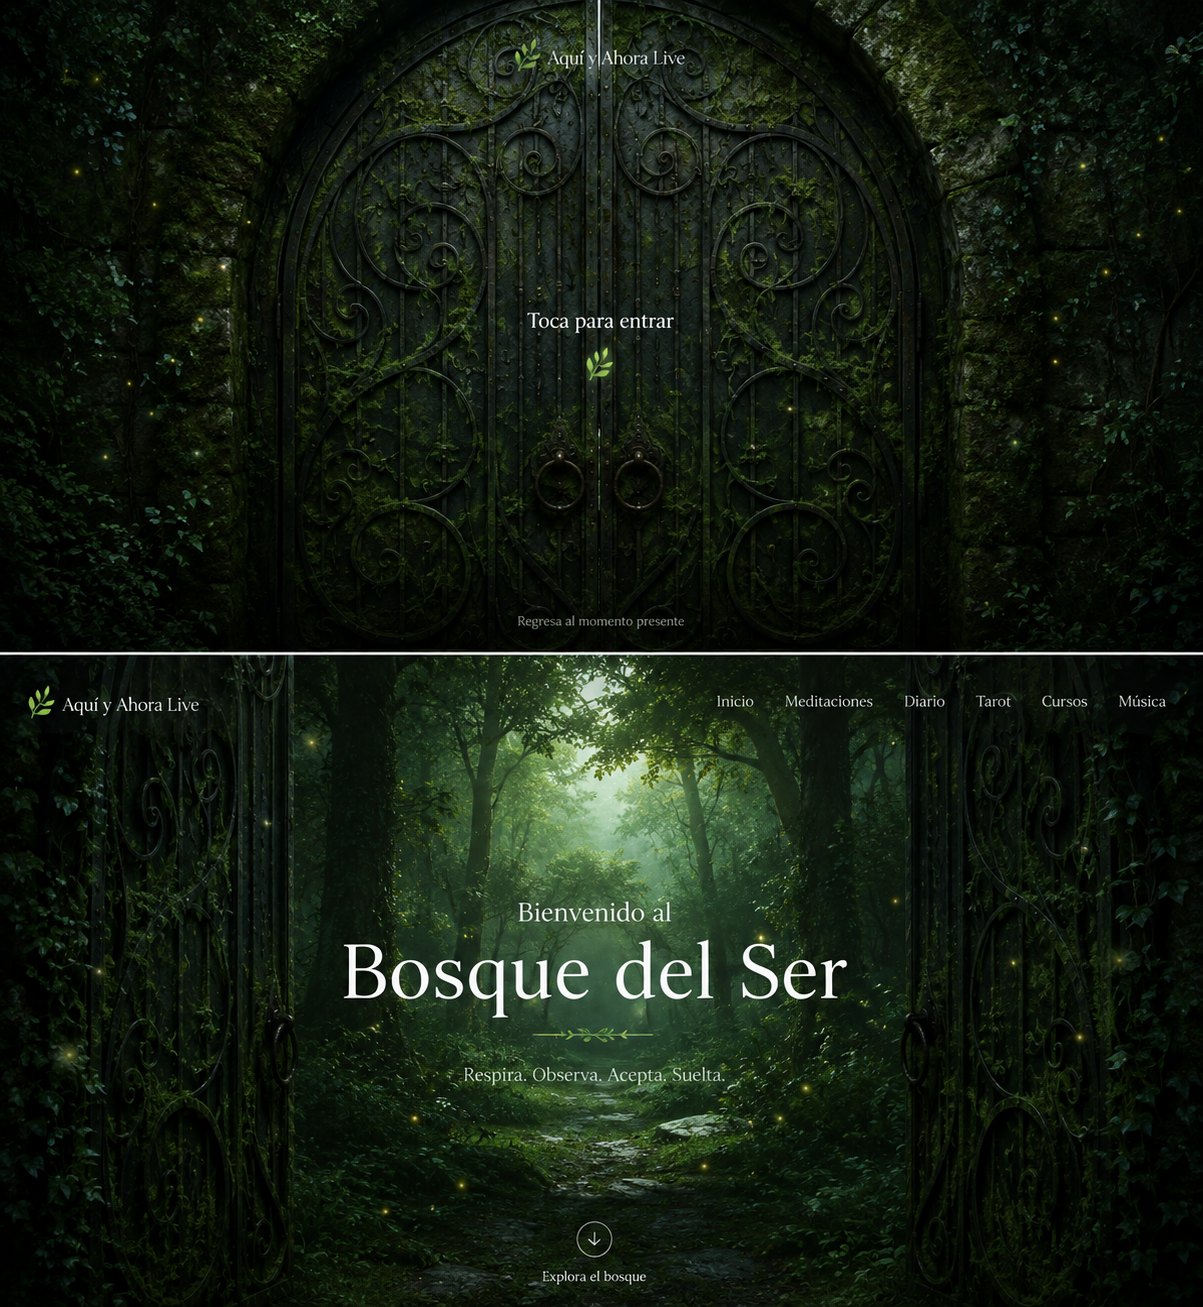
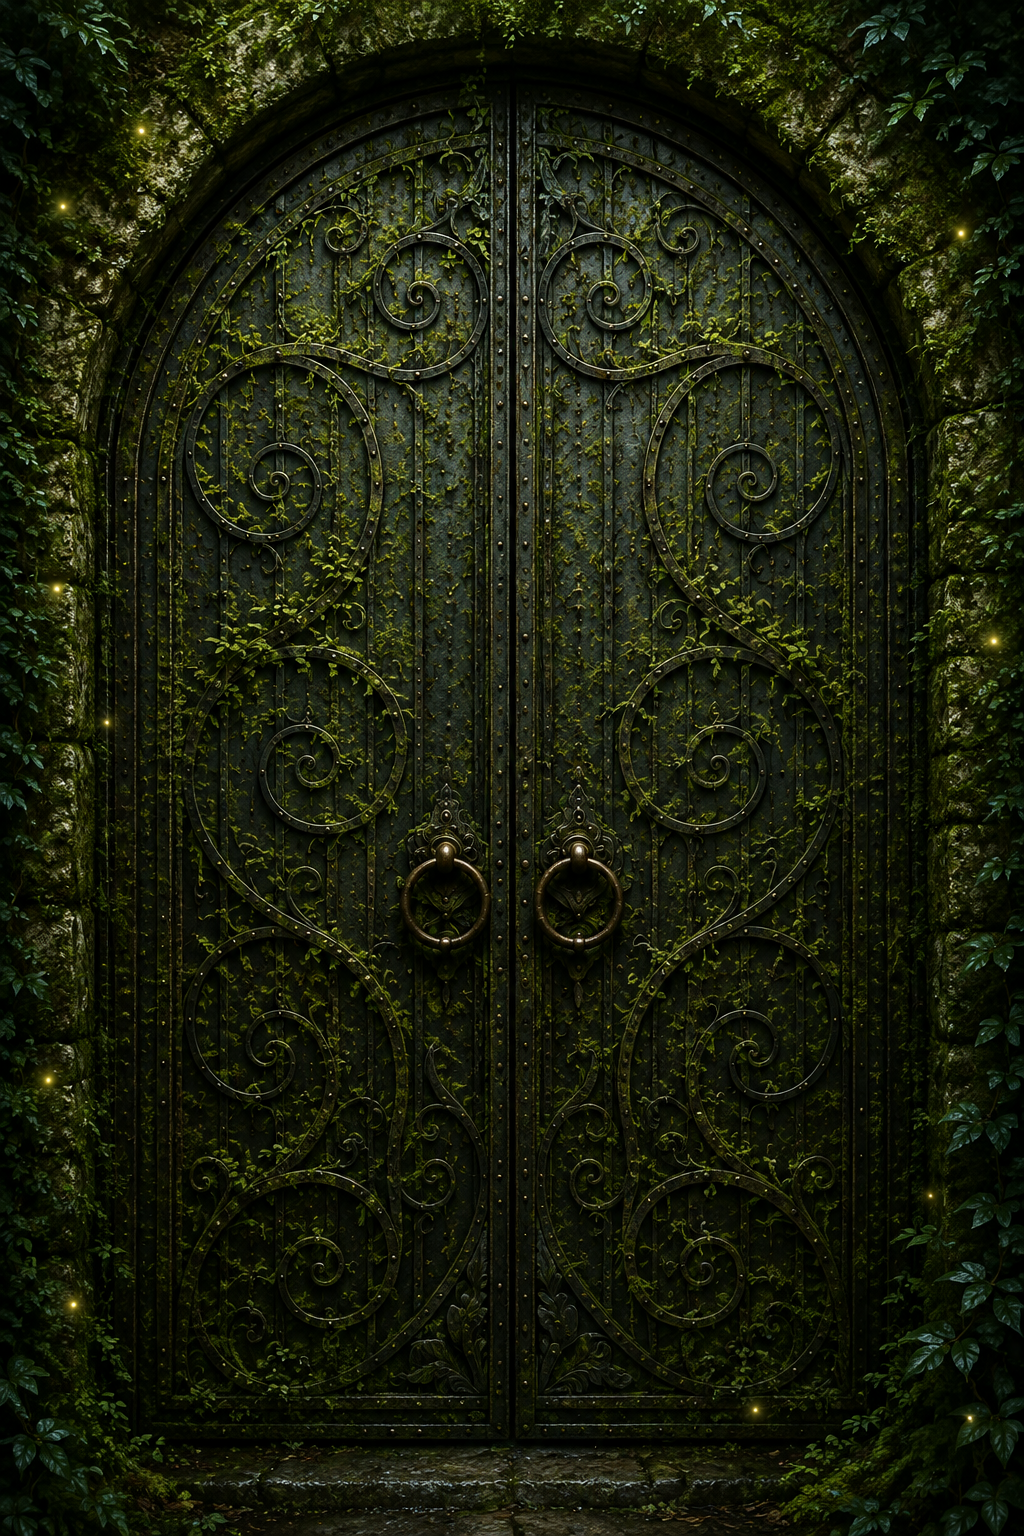
Add files via upload

diff --git a/assets/css/style.css b/assets/css/style.css
@@ -1,1 +1,1 @@
-*{margin:0;padding:0;box-sizing:border-box}html,body{height:100%;overflow:hidden;font-family:Georgia,serif}.gate,.forest{position:fixed;inset:0}.gate{background:url('../images/puerta-bosque.png') center/cover no-repeat;cursor:pointer;transition:opacity 1.6s}.overlay{position:absolute;inset:0;background:rgba(0,0,0,.28);display:flex;flex-direction:column;justify-content:center;align-items:center;color:#fff;text-align:center}.brand{position:absolute;top:24px;left:24px;font-weight:700}.overlay h2{font-size:3rem}.overlay p{margin-top:16px}.forest{background:url('../images/puerta-bosque.png') center/cover no-repeat;display:flex;flex-direction:column;color:#fff;opacity:0;transition:opacity 1.6s}.forest nav{padding:24px;font-weight:700}.forest main{flex:1;display:flex;flex-direction:column;justify-content:center;align-items:center;background:rgba(0,40,20,.35);text-align:center}.forest h1{font-size:4rem}.forest p{margin-top:18px;font-size:1.2rem}.hidden{display:none}.open{opacity:0}
+*{margin:0;padding:0;box-sizing:border-box}html,body{width:100%;height:100%;overflow:hidden;font-family:Georgia,serif}.screen{position:fixed;inset:0;width:100%;height:100%}.hidden{display:none}#intro{background:url("../images/puerta-bosque.png") center/cover no-repeat;cursor:pointer}#intro::before{content:"";position:absolute;inset:0;background:rgba(0,0,0,.35)}.brand{position:absolute;top:22px;left:28px;color:#fff;font-weight:bold;font-size:30px;z-index:2}.overlay{position:absolute;inset:0;display:flex;flex-direction:column;justify-content:center;align-items:center;color:#fff;z-index:2;text-align:center}.overlay h1{font-size:72px;text-shadow:0 4px 18px #000}.overlay p{font-size:28px;margin-top:12px}#forest{background:url("../images/bosque-menu.png") center/cover no-repeat;color:#fff}nav{position:absolute;top:20px;left:0;right:0;padding:0 34px;display:flex;justify-content:space-between;align-items:center;background:rgba(0,20,10,.28);backdrop-filter:blur(8px)}.logo{font-size:28px;font-weight:bold}.links a{margin-left:22px;font-size:20px}.hero{height:100%;display:flex;flex-direction:column;justify-content:center;align-items:center;text-align:center;background:linear-gradient(rgba(0,20,10,.15),rgba(0,20,10,.35))}.hero small{font-size:32px}.hero h2{font-size:110px}.hero p{font-size:30px;margin-top:18px}.opening{animation:fade .9s ease forwards}@keyframes fade{to{opacity:0}}

diff --git a/index.html b/index.html
@@ -1,1 +1,1 @@
-<!DOCTYPE html><html lang='es'><head><meta charset='UTF-8'><meta name='viewport' content='width=device-width,initial-scale=1'><title>Aquí y Ahora Live</title><link rel='stylesheet' href='assets/css/style.css'></head><body><div id='gate' class='gate'><div class='overlay'><div class='brand'>🌿 Aquí y Ahora Live</div><h2>Toca para entrar</h2><p>Regresa al momento presente</p></div></div><div id='forest' class='forest hidden'><nav>🌿 Aquí y Ahora Live</nav><main><h1>Bienvenido al<br>Bosque del Ser</h1><p>Respira. Observa. Acepta. Suelta.</p></main></div><script src='assets/js/app.js'></script></body></html>
+<!DOCTYPE html><html lang="es"><head><meta charset="UTF-8"><meta name="viewport" content="width=device-width, initial-scale=1.0"><title>Aquí y Ahora Live</title><link rel="stylesheet" href="assets/css/style.css"></head><body><section id="intro" class="screen"><div class="brand">🌿 Aquí y Ahora Live</div><div class="overlay"><h1>Toca la puerta</h1><p>Regresa al momento presente</p></div></section><section id="forest" class="screen hidden"><nav><div class="logo">🌿 Aquí y Ahora Live</div><div class="links"><a>Inicio</a><a>Meditaciones</a><a>Diario</a><a>Tarot</a><a>Cursos</a><a>Música</a></div></nav><div class="hero"><small>Bienvenido al</small><h2>Bosque del Ser</h2><p>Respira · Observa · Acepta · Suelta</p></div></section><script src="assets/js/app.js"></script></body></html>

diff --git a/assets/js/app.js b/assets/js/app.js
@@ -1,1 +1,1 @@
-const gate=document.getElementById('gate'),forest=document.getElementById('forest');gate.onclick=()=>{gate.classList.add('open');setTimeout(()=>{gate.classList.add('hidden');forest.classList.remove('hidden');requestAnimationFrame(()=>forest.style.opacity=1);},1600)};
+const intro=document.getElementById("intro");const forest=document.getElementById("forest");intro.onclick=()=>{intro.classList.add("opening");setTimeout(()=>{intro.classList.add("hidden");forest.classList.remove("hidden")},850)};
